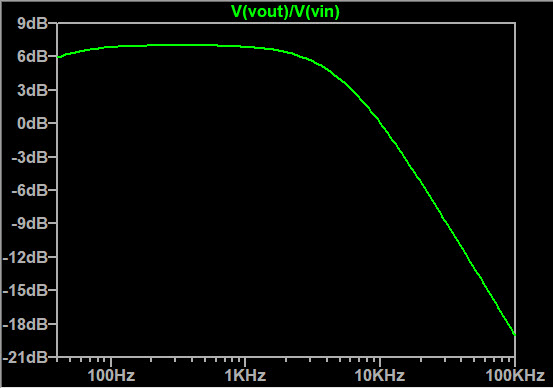
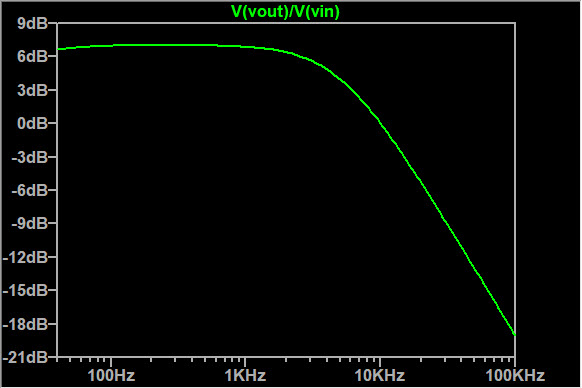
Working on simulation

diff --git a/hw/if-2/README.md b/hw/if-2/README.md
@@ -11,6 +11,10 @@ Simulated audio output filter (stage 2):
 
 ![System Picture](docs/sch-out2.jpg)
 
-Frequency response of audio output filter (stage 2):
+Frequency response:
 
 ![System Picture](docs/ac-out2.jpg)
+
+Frequency response focusing on the range from 40 Hz to 4 kHz:
+
+![System Picture](docs/ac-out2-b.jpg)
